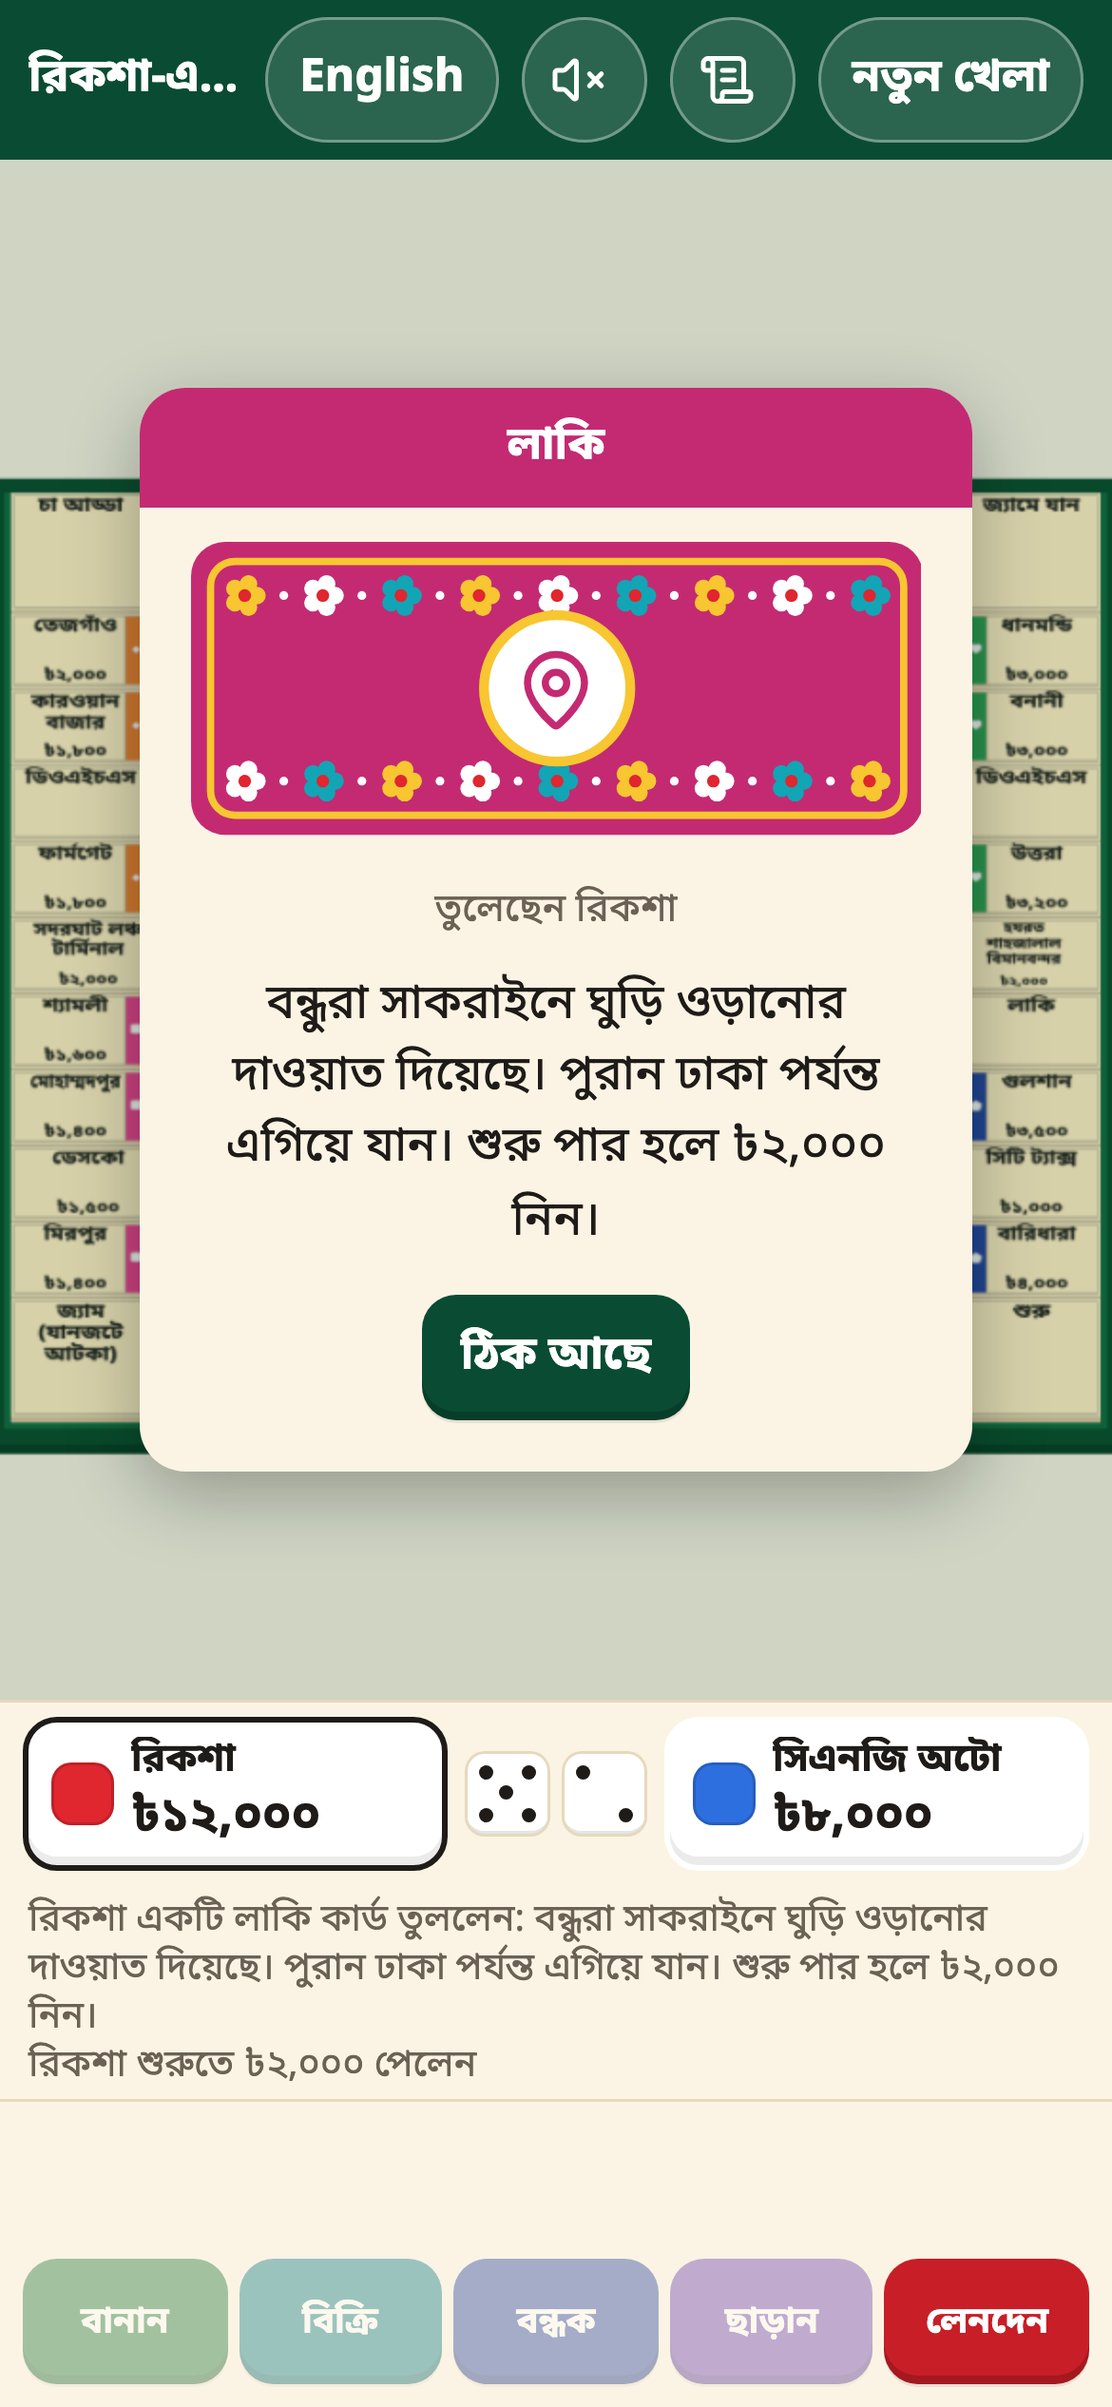
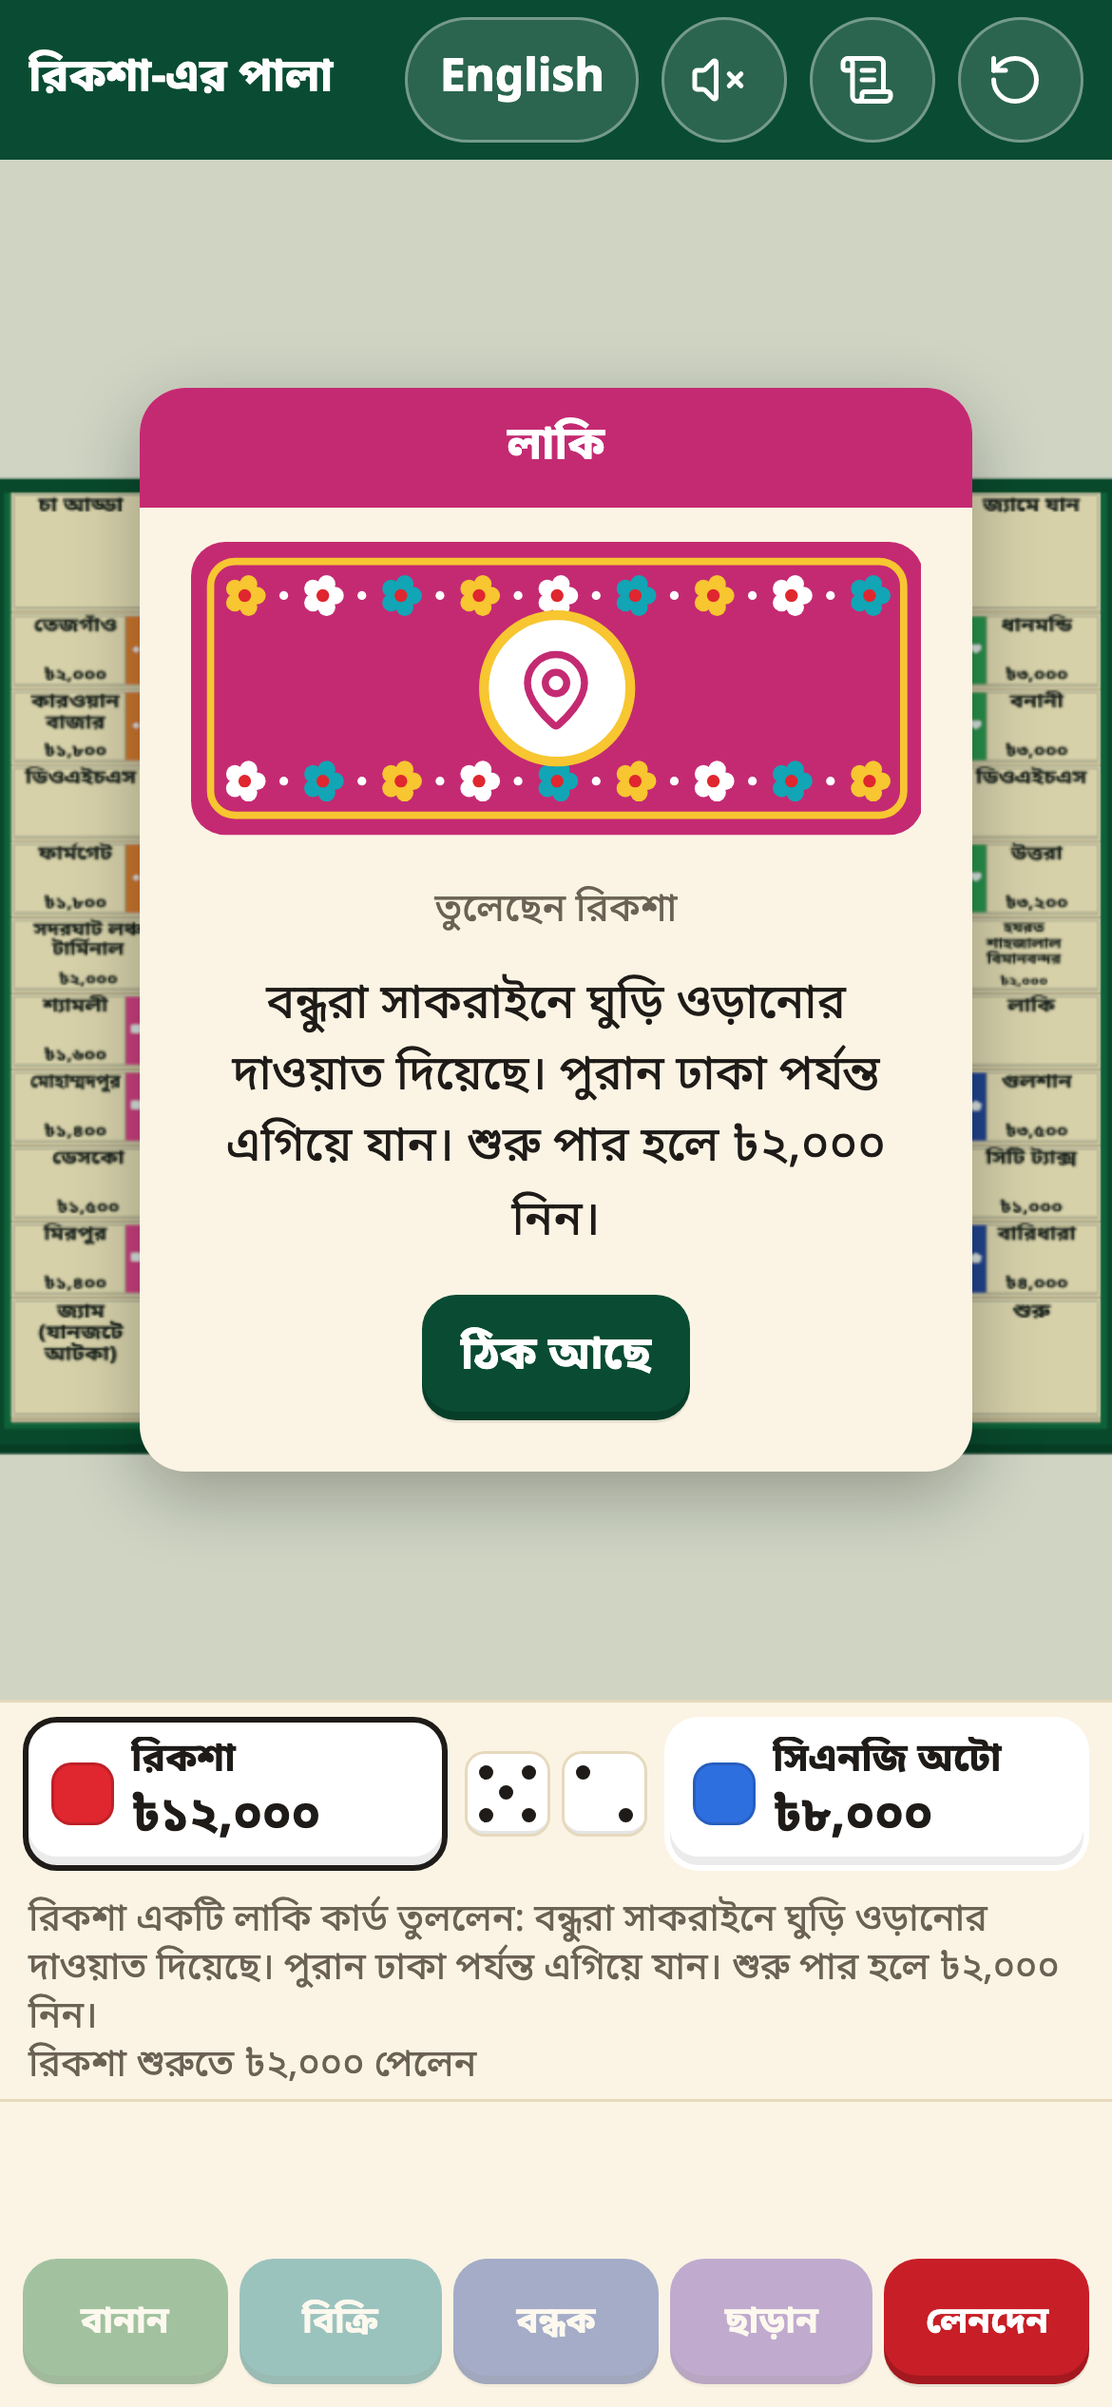
S7 FR-14: start cash and turn timer settings, countdown with passive choice at zero (D-93)

Changed region(s): [[0.1846, 0.0, 0.9538, 0.0624]]

diff --git a/src/ui/app.ts b/src/ui/app.ts
@@ -42,7 +42,7 @@ const FONT = '"Noto Sans Bengali", system-ui, sans-serif';
 export class App {
   private session: Session | null = null;
   private scene: BoardScene | null = null;
-  private setup = { count: 2, seats: ['human', 'human', 'human', 'human', 'human', 'human'] as SeatKind[] };
+  private setup = { count: 2, seats: ['human', 'human', 'human', 'human', 'human', 'human'] as SeatKind[], startCash: 0, timer: false };
   private panel: 'manage' | 'trade' | null = null;
   // Which management move the manage sheet lists (FR-17 buttons), or all of them in DEBT.
   private mode: 'BUILD' | 'SELL_BUILDING' | 'MORTGAGE' | 'REDEEM' | null = null;
@@ -58,6 +58,8 @@ export class App {
   // FR-19: after a resume with several people on one phone, cover the board until someone taps.
   private resumeCover = false;
   private settings: GameSettings = { timer: false };
+  // FR-14: the running turn timer for the human who must decide now (D-34).
+  private clock: { deadline: number; tick: number } | null = null;
   private playing: Promise<void> = Promise.resolve();
   private readonly els: Record<string, HTMLElement> = {};
   private suggestMemory: AiMemory = emptyMemory();
@@ -71,6 +73,9 @@ export class App {
     // Phones only start audio after a tap.
     if (!o.test) document.addEventListener('pointerdown', () => this.sfx.unlock(), { once: false, passive: true });
     document.documentElement.lang = getLang();
+    const { settings, startCash } = o.engine.rules.config;
+    this.setup.startCash = startCash;
+    this.setup.timer = settings.timerDefaultOn;
     this.renderSetup();
   }
 
@@ -100,6 +105,7 @@ export class App {
   // ---------- setup ----------
 
   private renderSetup(): void {
+    this.stopClock();
     this.scene?.dispose();
     this.scene = null;
     this.session = null;
@@ -115,6 +121,17 @@ export class App {
     for (let n = this.o.engine.rules.config.players.min; n <= this.o.engine.rules.config.players.max; n++) {
       counts.append(h('button', { class: n === this.setup.count ? 'chip on' : 'chip', 'data-testid': `count-${n}`, onclick: () => { this.setup.count = n; this.renderSetup(); } }, num(n)));
     }
+    // FR-14: start cash and the optional turn timer.
+    const { settings } = this.o.engine.rules.config;
+    const cash = h('div', { class: 'counts', role: 'group', 'aria-label': t('setup.startCash') });
+    for (const n of settings.startCashOptions) {
+      cash.append(h('button', { class: n === this.setup.startCash ? 'chip on' : 'chip', 'data-testid': `cash-${n}`, 'aria-pressed': n === this.setup.startCash ? 'true' : 'false', onclick: () => { this.setup.startCash = n; this.renderSetup(); } }, money(n)));
+    }
+    const timer = h('div', { class: 'counts', role: 'group', 'aria-label': t('setup.timer') });
+    for (const on of [false, true]) {
+      timer.append(h('button', { class: on === this.setup.timer ? 'chip on' : 'chip', 'data-testid': `timer-${on ? 'on' : 'off'}`, 'aria-pressed': on === this.setup.timer ? 'true' : 'false', onclick: () => { this.setup.timer = on; this.renderSetup(); } },
+        on ? t('setup.timerOn', { seconds: num(settings.timerSeconds) }) : t('setup.timerOff')));
+    }
     const saved = loadSave(deviceStorage(), this.o.engine);
     root.append(h('div', { class: 'setup' },
       h('div', { class: 'setup-top' }, h('h1', {}, t('app.title')), this.langButton()),
@@ -123,6 +140,10 @@ export class App {
       h('div', { class: 'field-label' }, t('setup.players')),
       counts,
       seats,
+      h('div', { class: 'field-label' }, t('setup.startCash')),
+      cash,
+      h('div', { class: 'field-label' }, t('setup.timer')),
+      timer,
       h('button', { class: 'primary big', 'data-testid': 'start', onclick: () => this.start() }, t('setup.start')),
     ));
     document.title = t('app.title');
@@ -155,8 +176,9 @@ export class App {
   private start(): void {
     const seats = this.setup.seats.slice(0, this.setup.count);
     const seed = this.o.test ? 4242 : (Date.now() & 0x7fffffff);
+    this.settings = { timer: this.setup.timer };
     this.begin(new Session({
-      engine: this.o.engine, ai: this.o.ai, profiles: this.o.profiles, seats, seed,
+      engine: this.o.engine, ai: this.o.ai, profiles: this.o.profiles, seats, seed, startCash: this.setup.startCash,
       aiDelayMs: this.o.test ? 0 : 650,
       // Computer moves wait for the board animation to finish.
       schedule: (fn, ms) => { void this.playing.then(() => setTimeout(fn, ms)); },
@@ -244,6 +266,8 @@ export class App {
     }
     this.events = this.events.slice(-600);
     this.confirmBankrupt = false;
+    // Every change is a new decision, so the turn timer starts again (D-34: per decision).
+    this.stopClock();
     // FR-19: save after every change; a finished game is not kept.
     if (state.turn.phase === 'GAME_OVER') clearSave(deviceStorage());
     else if (this.session) writeSave(deviceStorage(), this.session.snapshot(this.settings, this.events));
@@ -284,6 +308,53 @@ export class App {
     this.renderSheet(s);
     this.renderOverlay(s);
     this.scene?.setHighlights(this.tapTargets());
+    this.syncClock(s);
+  }
+
+  // ---------- turn timer (FR-14, D-34, D-52) ----------
+
+  // Runs while a human must make a decision that has a passive choice, once the phone is theirs.
+  private syncClock(s: GameState): void {
+    const session = this.session;
+    const who = session?.actor() ?? null;
+    const live = !!session && this.settings.timer && who !== null && session.isHuman(who) && !this.needsHandoff(s, who) && this.o.engine.passiveAction(s, who) !== null;
+    if (!live) return this.stopClock();
+    if (!this.clock) {
+      const deadline = Date.now() + this.o.engine.rules.config.settings.timerSeconds * 1000;
+      this.clock = { deadline, tick: window.setInterval(() => (Date.now() >= deadline ? this.expireClock() : this.showClock()), 250) };
+    }
+    this.showClock();
+  }
+
+  private stopClock(): void {
+    if (this.clock) window.clearInterval(this.clock.tick);
+    this.clock = null;
+    const el = this.els['top']?.querySelector<HTMLElement>('[data-testid="timer"]');
+    if (el) el.hidden = true;
+  }
+
+  private showClock(): void {
+    const el = this.els['top']?.querySelector<HTMLElement>('[data-testid="timer"]');
+    if (!el || !this.clock) return;
+    const left = Math.max(0, Math.ceil((this.clock.deadline - Date.now()) / 1000));
+    el.hidden = false;
+    el.classList.toggle('low', left <= 5);
+    el.setAttribute('aria-label', t('timer.label', { seconds: num(left) }));
+    el.lastChild!.textContent = num(left);
+  }
+
+  // Time is up: take the passive choice for whoever must decide (decline, fold, end turn, reject).
+  private expireClock(): void {
+    this.stopClock();
+    const session = this.session;
+    const who = session?.actor() ?? null;
+    if (!session || who === null || !session.isHuman(who)) return;
+    const passive = this.o.engine.passiveAction(session.state, who);
+    if (!passive) return;
+    this.panel = null;
+    this.mode = null;
+    this.info = null;
+    this.act(passive);
   }
 
   // Tiles the chosen management move can use right now, for highlighting and tapping.
@@ -325,10 +396,11 @@ export class App {
     const label = s.turn.phase === 'GAME_OVER' ? t('over.title', { name: playerName(s.winner!) }) : t('hud.turn', { name: playerName(s.turn.active) });
     this.els['top']!.replaceChildren(
       h('div', { class: 'turn', 'data-testid': 'turn' }, label),
+      ...(this.settings.timer ? [h('div', { class: 'timer', 'data-testid': 'timer', role: 'timer', hidden: true }, icon('timer', 18), h('span', {}, ''))] : []),
       this.langButton(),
       this.soundButton(),
       this.logButton(),
-      h('button', { class: 'chip', 'data-testid': 'new-game', onclick: () => { if (this.o.test || window.confirm(t('menu.confirmNew'))) this.renderSetup(); } }, t('menu.newGame')),
+      h('button', { class: 'chip icon', 'data-testid': 'new-game', 'aria-label': t('menu.newGame'), title: t('menu.newGame'), onclick: () => { if (this.o.test || window.confirm(t('menu.confirmNew'))) this.renderSetup(); } }, icon('newGame', 20)),
     );
   }
 

diff --git a/tests/e2e/settings.spec.ts b/tests/e2e/settings.spec.ts
@@ -1,0 +1,50 @@
+import { expect, test } from '@playwright/test';
+import { runSteps } from './helpers';
+
+test.describe('game settings (FR-14)', () => {
+  test('FR-14, R-07: the chosen start cash is what every player starts with', async ({ page }) => {
+    await page.goto('/?test=1&lang=en');
+    await expect(page.getByTestId('cash-10000')).toHaveAttribute('aria-pressed', 'true');
+    await expect(page.getByTestId('timer-off')).toHaveAttribute('aria-pressed', 'true');
+    await page.getByTestId('cash-15000').click();
+    await page.screenshot({ path: 'docs/screenshots/s7-settings-en.png' });
+    await page.getByTestId('count-3').click();
+    await page.getByTestId('start').click();
+    for (const i of [0, 1, 2]) await expect(page.getByTestId(`player-${i}`)).toContainText('৳15,000');
+    await expect(page.getByTestId('timer')).toHaveCount(0);
+  });
+
+  test('FR-14, D-34, R-18: with the timer on, an unanswered buy decision runs out after 30 seconds and goes to auction', async ({ page }) => {
+    await page.clock.install();
+    await page.goto('/?test=1&lang=en');
+    await page.getByTestId('timer-on').click();
+    await page.getByTestId('start').click();
+    for (let i = 0; i < 300 && !(await page.getByTestId('deed').isVisible()); i++) await runSteps(page, 1);
+    await expect(page.getByTestId('deed')).toBeVisible();
+    const timer = page.getByTestId('timer');
+    await expect(timer).toBeVisible();
+    await expect(timer).toHaveText('30');
+    await page.screenshot({ path: 'docs/screenshots/s7-timer-en.png' });
+    await page.clock.fastForward(20_000);
+    await expect(timer).toHaveText('10');
+    await expect(page.getByTestId('deed')).toBeVisible();
+    await page.clock.fastForward(11_000);
+    await expect(page.getByTestId('deed')).toBeHidden();
+    await expect(page.getByTestId('auction')).toBeVisible();
+    // A new decision (the first bid) starts a fresh 30 seconds.
+    await expect(timer).toHaveText('30');
+  });
+
+  test('FR-14, D-34: no timer before the roll or at the hand-off', async ({ page }) => {
+    await page.clock.install();
+    await page.goto('/?test=1&lang=en');
+    await page.getByTestId('timer-on').click();
+    await page.getByTestId('start').click();
+    await expect(page.getByTestId('handoff')).toBeVisible();
+    await expect(page.getByTestId('timer')).toBeHidden();
+    await page.getByTestId('handoff').getByRole('button').click();
+    await expect(page.getByTestId('timer')).toBeHidden();
+    await page.clock.fastForward(60_000);
+    await expect(page.locator('.main-row [data-action*="\\"ROLL\\""]')).toBeVisible();
+  });
+});

diff --git a/src/ui/styles.css b/src/ui/styles.css
@@ -75,17 +75,20 @@ button:focus-visible, select:focus-visible, input:focus-visible { outline: 3px s
 .seat { display: flex; align-items: center; gap: 10px; background: var(--paper); border-radius: 12px; padding: 6px 10px; box-shadow: inset 0 0 0 1px var(--paperEdge); }
 .seat-name { flex: 1; font-weight: 700; }
 .seat select { min-height: var(--tap); border-radius: 10px; border: 1px solid var(--paperEdge); padding: 0 8px; background: #fff; }
+.top .timer { display: inline-flex; align-items: center; gap: 4px; min-height: var(--tap); padding: 0 10px; border-radius: 999px; background: rgba(255,255,255,0.14); font-weight: 700; font-variant-numeric: tabular-nums; }
+.top .timer[hidden] { display: none; }
+.top .timer.low { background: #C8102E; }
 .continue { background: var(--paper); border-radius: 14px; padding: 12px 14px; box-shadow: inset 0 0 0 2px var(--boardGreen, #0b6b3a); display: grid; gap: 6px; }
 .continue h2, .continue p { margin: 0; }
 .field-label { font-size: 0.85rem; color: var(--muted); margin-top: 4px; font-weight: 700; }
 
 /* Game layout, portrait first (plan 3.5) */
-.game { flex: 1; display: grid; grid-template-rows: auto 1fr auto auto; grid-template-areas: "top" "board" "players" "side"; min-height: 0; position: relative;
+.game { flex: 1; display: grid; grid-template-columns: minmax(0, 1fr); grid-template-rows: auto 1fr auto auto; grid-template-areas: "top" "board" "players" "side"; min-height: 0; position: relative;
   padding: env(safe-area-inset-top) env(safe-area-inset-right) env(safe-area-inset-bottom) env(safe-area-inset-left); }
 .top { grid-area: top; display: flex; align-items: center; gap: 8px; padding: 6px 10px; background: var(--boardGreenDark); color: #fff; position: relative; z-index: 11; }
 /* The top strip stays usable above overlays, so the language can change during a hand-off. */
 .top .chip { background: rgba(255,255,255,0.14); color: #fff; box-shadow: inset 0 0 0 1px rgba(255,255,255,0.35); }
-.turn { flex: 1; font-weight: 700; overflow: hidden; text-overflow: ellipsis; white-space: nowrap; }
+.turn { flex: 1; min-width: 0; font-weight: 700; overflow: hidden; text-overflow: ellipsis; white-space: nowrap; }
 .board-wrap { grid-area: board; position: relative; min-height: 0; }
 canvas.board { position: absolute; inset: 0; width: 100%; height: 100%; display: block; }
 .side { grid-area: side; display: flex; flex-direction: column; min-height: 0; }

diff --git a/src/ui/icons.ts b/src/ui/icons.ts
@@ -1,10 +1,10 @@
 // Interface icons from lucide (ISC license, docs/LICENSES.md), the only icon set used (org rule).
 
-import { Coins, createElement, Gift, Hammer, HandCoins, KeyRound, MapPin, ScrollText, TrafficCone, Undo2, Users, Volume2, VolumeX, Wallet, type IconNode } from 'lucide';
+import { Coins, createElement, Gift, Hammer, HandCoins, KeyRound, MapPin, RotateCcw, ScrollText, Timer, TrafficCone, Undo2, Users, Volume2, VolumeX, Wallet, type IconNode } from 'lucide';
 
 const ICONS: Record<string, IconNode> = {
   soundOn: Volume2, soundOff: VolumeX, collect: HandCoins, pay: Wallet, collectFromEach: Users, payEach: Gift,
-  moveTo: MapPin, moveBy: Undo2, goToJam: TrafficCone, jamFreeCard: KeyRound, repairs: Hammer, coins: Coins, log: ScrollText,
+  moveTo: MapPin, moveBy: Undo2, goToJam: TrafficCone, jamFreeCard: KeyRound, repairs: Hammer, coins: Coins, log: ScrollText, timer: Timer, newGame: RotateCcw,
 };
 
 export function icon(name: keyof typeof ICONS | string, size = 22, color = 'currentColor'): SVGElement {

diff --git a/tests/unit/data-config.test.ts b/tests/unit/data-config.test.ts
@@ -30,6 +30,13 @@ describe('config.json economy (plan 2.3 and 2.4)', () => {
   it('FR-07: mortgage at 50 percent, redeem at principal plus 10 percent', () => {
     expect(config.mortgage).toEqual({ rate: 0.5, redeemInterest: 0.1 });
   });
+  it('FR-14, D-34, D-93: settings offer start cash choices around the default, and a 30 second timer that is off by default', () => {
+    expect(config.settings.startCashOptions).toContain(config.startCash);
+    expect([...config.settings.startCashOptions].sort((a, b) => a - b)).toEqual(config.settings.startCashOptions);
+    expect(config.settings.startCashOptions.every((n) => n > 0 && n % 500 === 0)).toBe(true);
+    expect(config.settings.timerSeconds).toBe(30);
+    expect(config.settings.timerDefaultOn).toBe(false);
+  });
   it('FR-04: auction opens at 0 with a minimum raise of 100', () => {
     expect(config.auction).toEqual({ openingBid: 0, minRaise: 100 });
   });

diff --git a/src/engine/types.ts b/src/engine/types.ts
@@ -54,6 +54,8 @@ export interface Config {
   building: { maxHouses: number; sellBackRate: number };
   mortgage: { rate: number; redeemInterest: number };
   auction: { openingBid: number; minRaise: number };
+  // FR-14 game settings choices (D-34, D-93).
+  settings: { startCashOptions: number[]; timerSeconds: number; timerDefaultOn: boolean };
 }
 
 export interface Rules {

diff --git a/docs/DECISIONS.md b/docs/DECISIONS.md
@@ -98,6 +98,7 @@ Two lists: decisions taken (with who decided and why), and open questions waitin
 | D-90 | 2026-11-09 | Sprint S6 approved, including the owner feedback in D-84 to D-89. Before S7: the Android check and answers to Q-27 to Q-30. | Owner | Answered in chat. |
 | D-91 | 2026-11-09 | The Android phone check is dropped. The device matrix for release 1 is the owner's iPhone and a desktop browser; the iPhone runs the game well. | Owner | Owner in chat: "ignore android iphone works so no issues". |
 | D-92 | 2026-11-09 | Save and resume (FR-19): one autosave slot per device in local storage (key babsha.save, schema 1), written after every change and deleted when a game ends. The save holds the engine state, seats, settings, computer player memory and randomness, and the log, so a resumed game plays on exactly as if it never stopped. A save that does not match the current schema, state version or board is refused, not repaired. The new-game screen shows a Continue card when a save exists; starting a new game replaces it. With two or more humans, a resume in the middle of a turn shows a cover card first, like the hand-off. | Builder | save-systems skill: versioned schema, validate before load. One slot keeps the screen simple; plan 2.2 privacy: saves stay on the device. |
+| D-93 | 2026-11-09 | Game settings on the new-game screen (FR-14, D-63): start cash from five choices, ৳5,000, ৳7,500, ৳10,000 (default), ৳15,000 and ৳20,000, and the turn timer Off (default) or 30 seconds. The choices live in data/config.json under settings. When on, a countdown shows in the top strip while a human has a decision with a passive choice, restarts with every new decision, turns red for the last 5 seconds, and takes the passive choice at zero (D-34, D-52). It waits behind the hand-off. To make room, New game in the top strip is now an icon button with its name as the label. | Builder | The plan names start cash as a setting but not its range; the choices run from half to double the default. Only ৳10,000 was balance-tested in S3. Owner may change them in config.json. |
 
 ## Open questions
 
